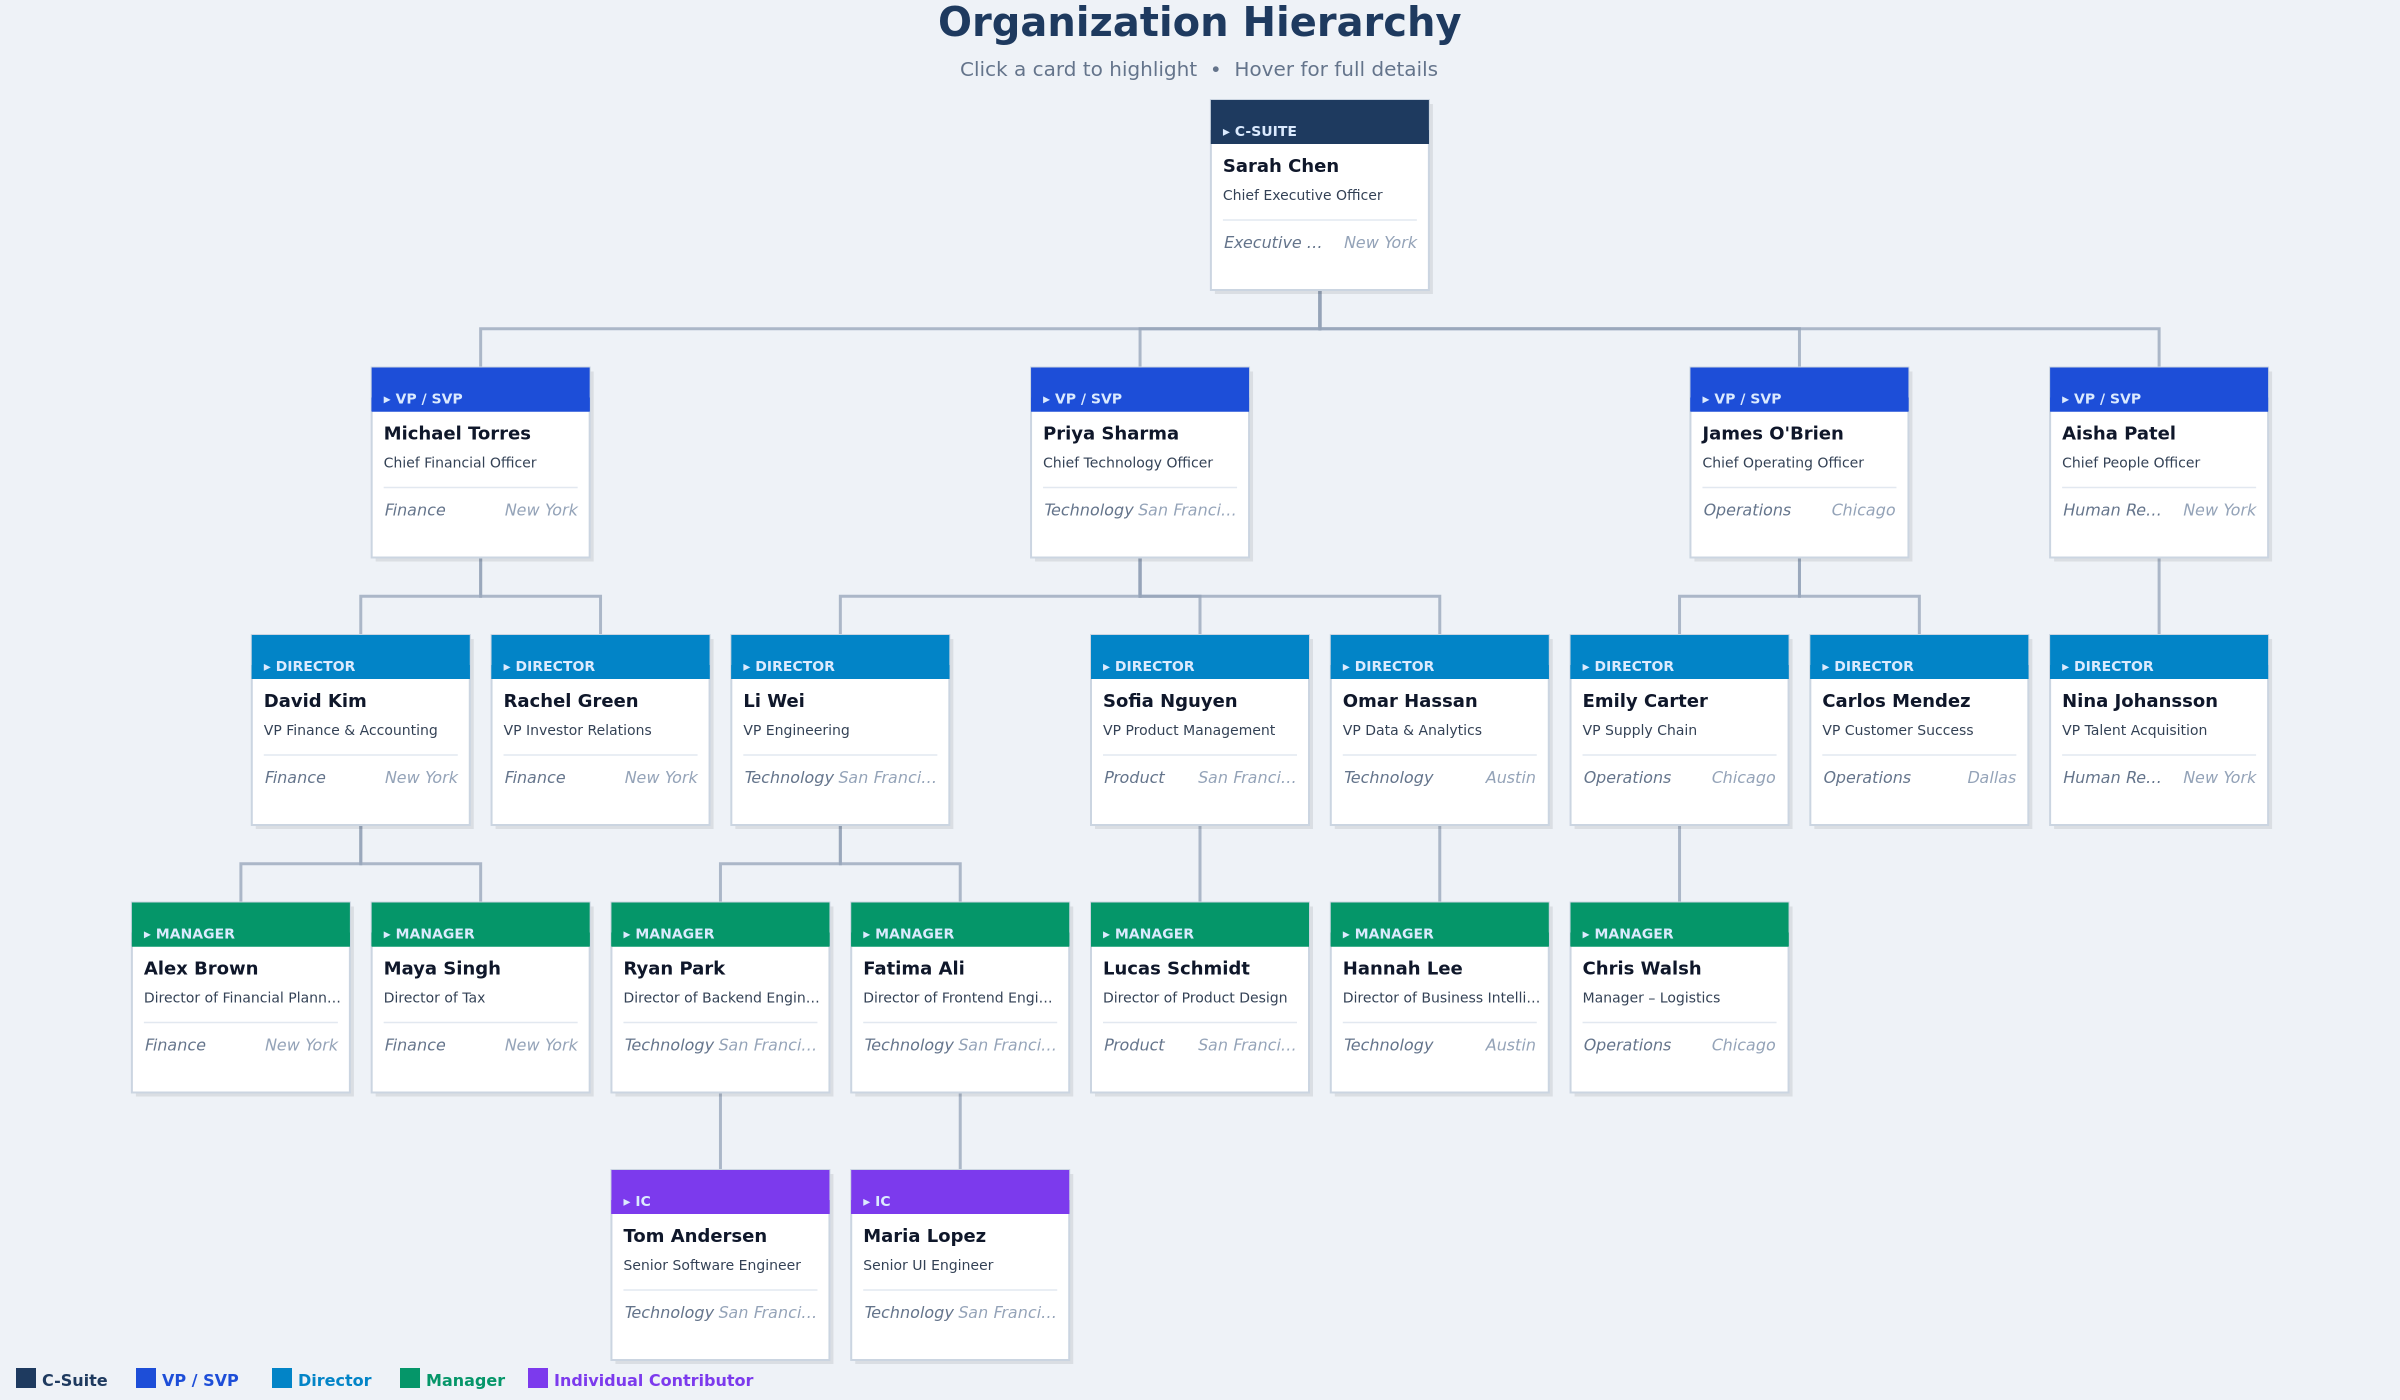
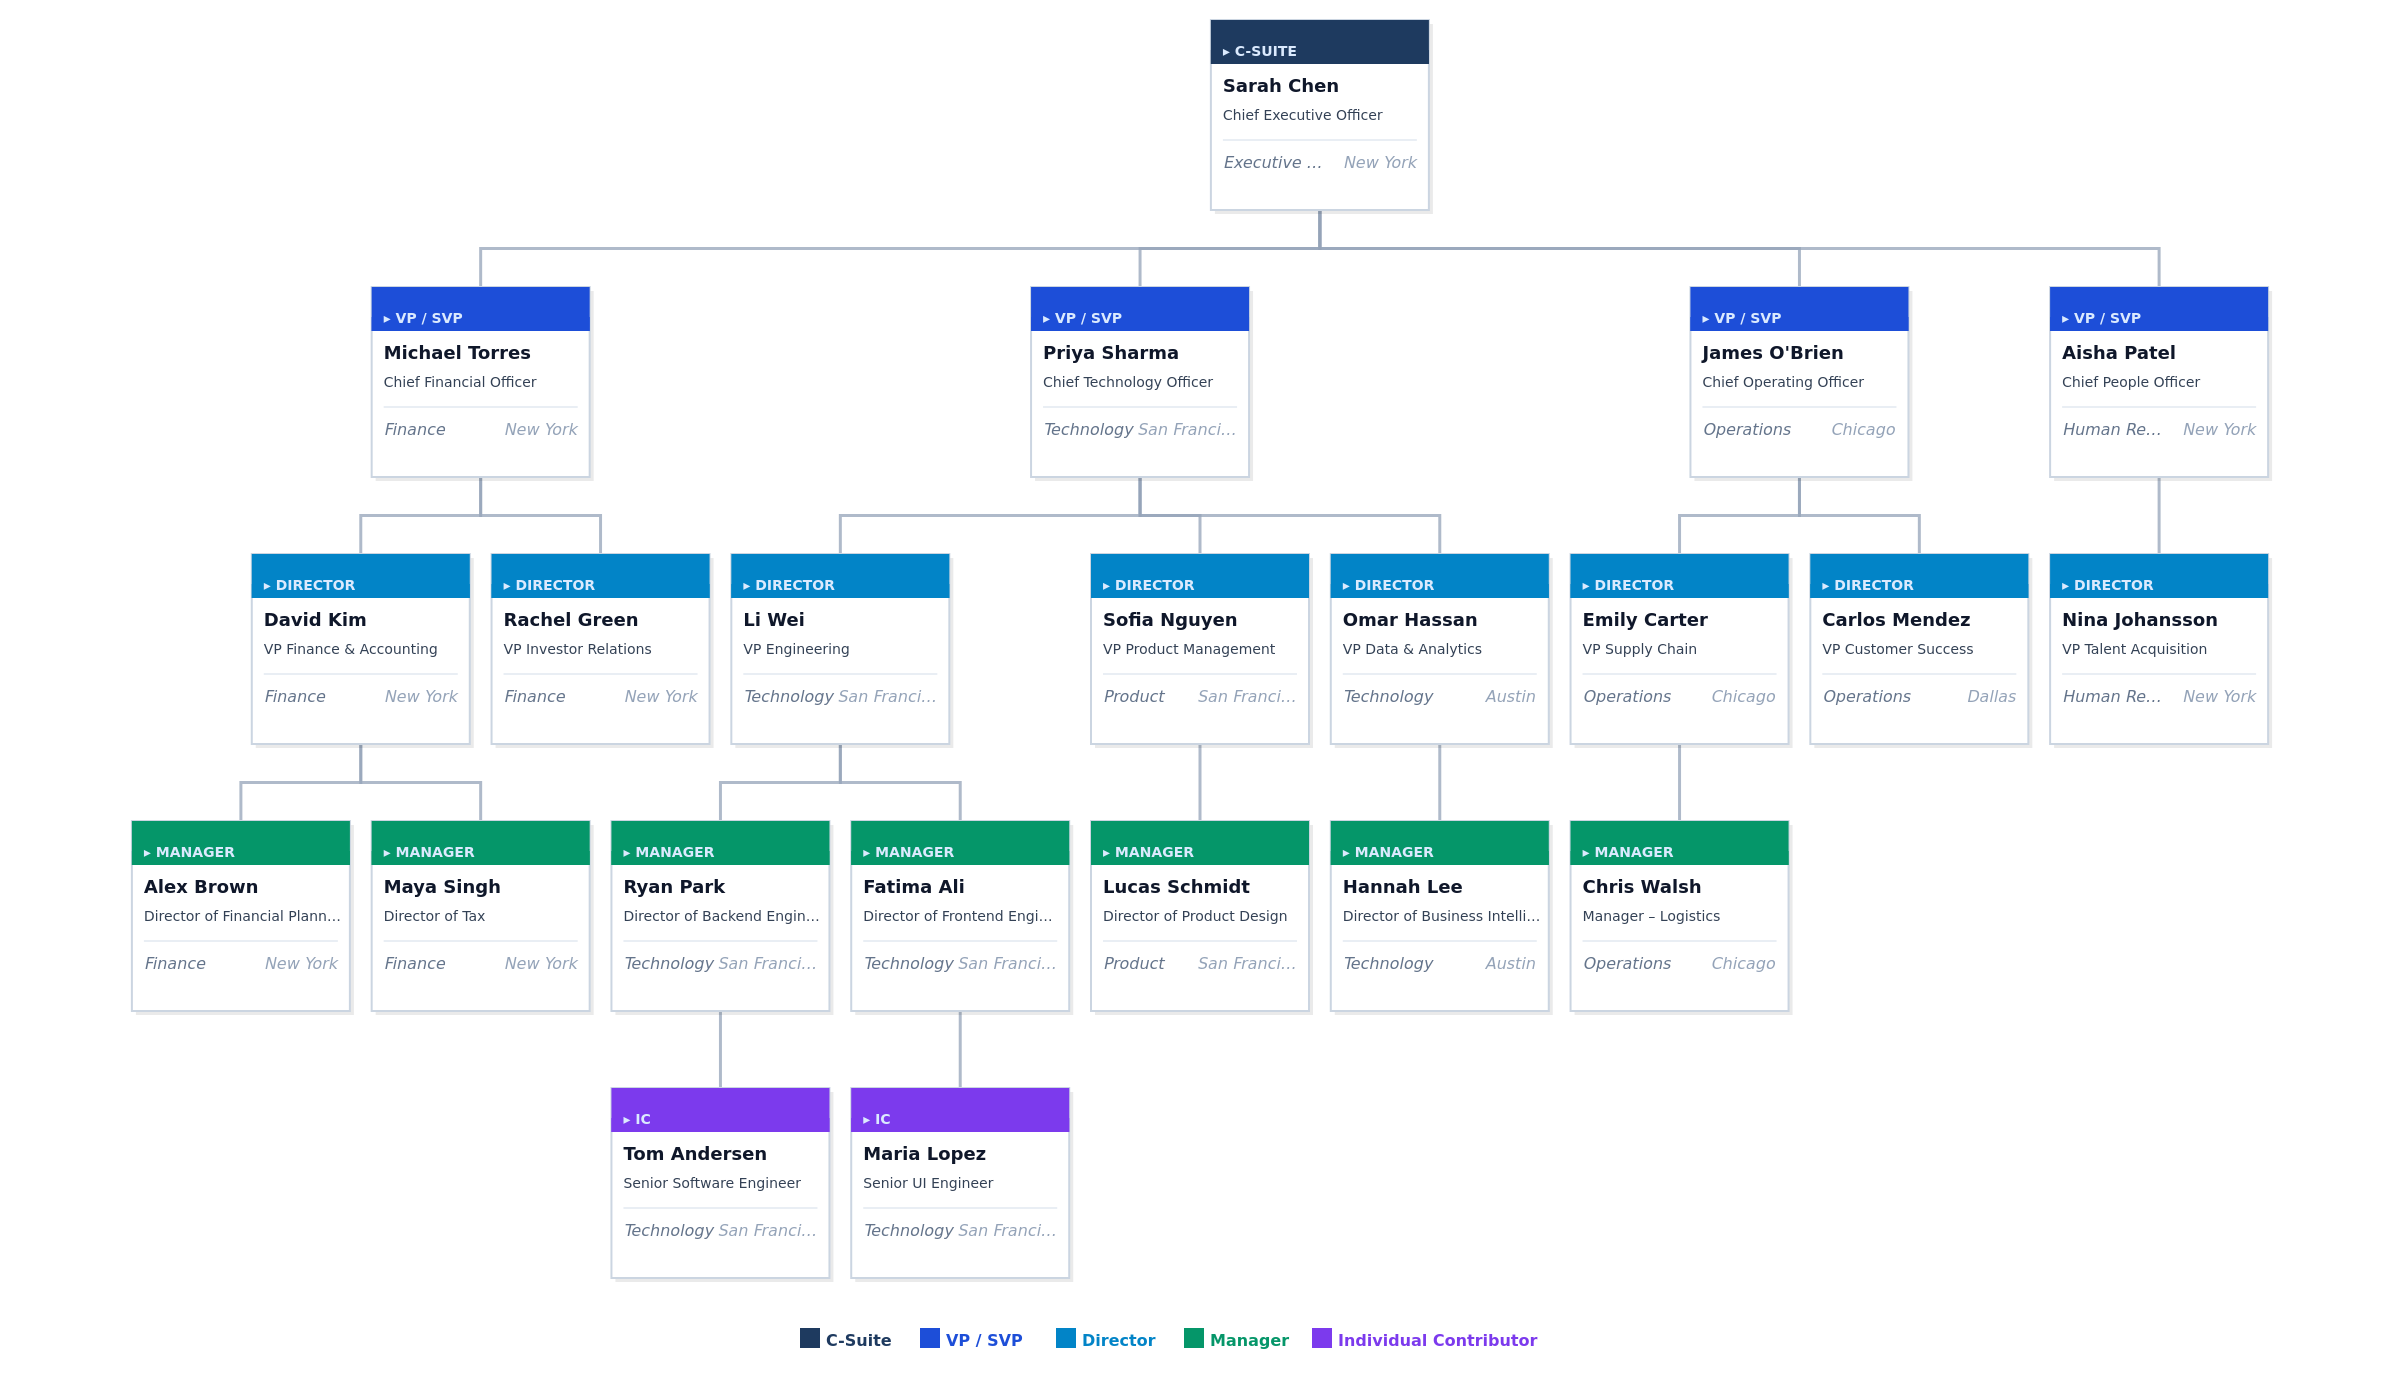
Update org hierarchy preview to match latest Vega template; add dashboard header
- Regenerated org_hierarchy_preview.png and .svg from current template code
- Updated colours: navy C-Suite, blue VP/SVP, sky Director, green Manager, purple IC
- Added dashboard_header.html with matching colour palette and "Unified Data View" title

https://claude.ai/code/session_01VPDP1xx5PekNrr5SJJpfHB

Changed region(s): [[0.0, 0.0, 0.9688, 1.0]]

diff --git a/powerbi_org_hierarchy/dashboard_header.html b/powerbi_org_hierarchy/dashboard_header.html
@@ -1,0 +1,237 @@
+<!DOCTYPE html>
+<html lang="en">
+<head>
+<meta charset="UTF-8">
+<meta name="viewport" content="width=device-width, initial-scale=1.0">
+<style>
+  *, *::before, *::after {
+    box-sizing: border-box;
+    margin: 0;
+    padding: 0;
+  }
+
+  html, body {
+    width: 100%;
+    height: 100%;
+    overflow: hidden;
+  }
+
+  body {
+    font-family: 'Segoe UI', Tahoma, sans-serif;
+    -webkit-font-smoothing: antialiased;
+    background: #eef3fb;
+  }
+
+  /* ── Outer wrapper ── */
+  .header {
+    display: flex;
+    align-items: center;
+    justify-content: space-between;
+    width: 100%;
+    height: 100%;
+    padding: 0 28px;
+    background: linear-gradient(135deg, #1b2e55 0%, #1e3a6e 60%, #1a4080 100%);
+    border-bottom: 3px solid #1d4ed8;
+    position: relative;
+    overflow: hidden;
+  }
+
+  /* ── Decorative arc (mirrors the org chart's rounded card aesthetic) ── */
+  .header::before {
+    content: '';
+    position: absolute;
+    right: -80px;
+    top: -80px;
+    width: 260px;
+    height: 260px;
+    border-radius: 50%;
+    background: rgba(255,255,255,0.04);
+    pointer-events: none;
+  }
+  .header::after {
+    content: '';
+    position: absolute;
+    right: 60px;
+    bottom: -100px;
+    width: 200px;
+    height: 200px;
+    border-radius: 50%;
+    background: rgba(255,255,255,0.03);
+    pointer-events: none;
+  }
+
+  /* ── Left: icon + title block ── */
+  .header-left {
+    display: flex;
+    align-items: center;
+    gap: 14px;
+    z-index: 1;
+  }
+
+  .header-icon {
+    width: 38px;
+    height: 38px;
+    border-radius: 9px;
+    background: rgba(255,255,255,0.12);
+    border: 1.5px solid rgba(255,255,255,0.2);
+    display: flex;
+    align-items: center;
+    justify-content: center;
+    flex-shrink: 0;
+  }
+
+  /* Simple grid-of-dots icon — echoes the org-chart node motif */
+  .header-icon svg {
+    width: 20px;
+    height: 20px;
+  }
+
+  .header-titles {
+    display: flex;
+    flex-direction: column;
+    gap: 2px;
+  }
+
+  .header-title {
+    font-size: 20px;
+    font-weight: 700;
+    color: #ffffff;
+    letter-spacing: -0.4px;
+    line-height: 1.15;
+    white-space: nowrap;
+  }
+
+  .header-subtitle {
+    font-size: 10px;
+    font-weight: 500;
+    color: rgba(255,255,255,0.55);
+    text-transform: uppercase;
+    letter-spacing: 1.4px;
+    white-space: nowrap;
+  }
+
+  /* ── Center: vertical rule + scope text ── */
+  .header-center {
+    display: flex;
+    align-items: center;
+    gap: 14px;
+    z-index: 1;
+  }
+
+  .vr {
+    width: 1px;
+    height: 32px;
+    background: rgba(255,255,255,0.18);
+    flex-shrink: 0;
+  }
+
+  .scope-text {
+    font-size: 11px;
+    font-weight: 500;
+    color: rgba(255,255,255,0.60);
+    white-space: nowrap;
+  }
+
+  /* ── Right: tier legend ── */
+  .tier-legend {
+    display: flex;
+    align-items: center;
+    gap: 12px;
+    z-index: 1;
+  }
+
+  .tier-pill {
+    display: flex;
+    align-items: center;
+    gap: 5px;
+    padding: 4px 9px;
+    border-radius: 20px;
+    background: rgba(255,255,255,0.08);
+    border: 1px solid rgba(255,255,255,0.13);
+  }
+
+  .tier-dot {
+    width: 7px;
+    height: 7px;
+    border-radius: 50%;
+    flex-shrink: 0;
+  }
+
+  .tier-label {
+    font-size: 9.5px;
+    font-weight: 600;
+    color: rgba(255,255,255,0.80);
+    text-transform: uppercase;
+    letter-spacing: 0.8px;
+    white-space: nowrap;
+  }
+
+  /* Tier colours — exact match to the org chart legend */
+  .dot-csuite      { background: #1b2e55; border: 1.5px solid #6b7caa; }
+  .dot-vp          { background: #1d4ed8; }
+  .dot-director    { background: #16a34a; }
+  .dot-manager     { background: #7c3aed; }
+  .dot-ic          { background: #9ca3af; }
+
+</style>
+</head>
+<body>
+<header class="header">
+
+  <!-- LEFT: brand mark + title -->
+  <div class="header-left">
+    <div class="header-icon">
+      <!-- hierarchy / org-tree SVG icon -->
+      <svg viewBox="0 0 20 20" fill="none" xmlns="http://www.w3.org/2000/svg">
+        <rect x="7" y="1" width="6" height="4.5" rx="1.2" fill="rgba(255,255,255,0.9)"/>
+        <rect x="1" y="13.5" width="5.5" height="4" rx="1" fill="rgba(255,255,255,0.75)"/>
+        <rect x="7.25" y="13.5" width="5.5" height="4" rx="1" fill="rgba(255,255,255,0.75)"/>
+        <rect x="13.5" y="13.5" width="5.5" height="4" rx="1" fill="rgba(255,255,255,0.75)"/>
+        <!-- connector lines -->
+        <line x1="10" y1="5.5" x2="10" y2="9"   stroke="rgba(255,255,255,0.55)" stroke-width="1.2"/>
+        <line x1="3.75" y1="9" x2="16.25" y2="9"  stroke="rgba(255,255,255,0.55)" stroke-width="1.2"/>
+        <line x1="3.75"  y1="9" x2="3.75"  y2="13.5" stroke="rgba(255,255,255,0.55)" stroke-width="1.2"/>
+        <line x1="10"    y1="9" x2="10"    y2="13.5" stroke="rgba(255,255,255,0.55)" stroke-width="1.2"/>
+        <line x1="16.25" y1="9" x2="16.25" y2="13.5" stroke="rgba(255,255,255,0.55)" stroke-width="1.2"/>
+      </svg>
+    </div>
+
+    <div class="header-titles">
+      <span class="header-title">Unified Data View</span>
+      <span class="header-subtitle">Organization Intelligence Dashboard</span>
+    </div>
+  </div>
+
+  <!-- CENTER: divider + context label -->
+  <div class="header-center">
+    <div class="vr"></div>
+    <span class="scope-text">Enterprise · All Levels · Live</span>
+  </div>
+
+  <!-- RIGHT: tier colour legend -->
+  <div class="tier-legend">
+    <div class="tier-pill">
+      <div class="tier-dot dot-csuite"></div>
+      <span class="tier-label">C-Suite</span>
+    </div>
+    <div class="tier-pill">
+      <div class="tier-dot dot-vp"></div>
+      <span class="tier-label">VP / EVP</span>
+    </div>
+    <div class="tier-pill">
+      <div class="tier-dot dot-director"></div>
+      <span class="tier-label">Director</span>
+    </div>
+    <div class="tier-pill">
+      <div class="tier-dot dot-manager"></div>
+      <span class="tier-label">Manager</span>
+    </div>
+    <div class="tier-pill">
+      <div class="tier-dot dot-ic"></div>
+      <span class="tier-label">IC</span>
+    </div>
+  </div>
+
+</header>
+</body>
+</html>
